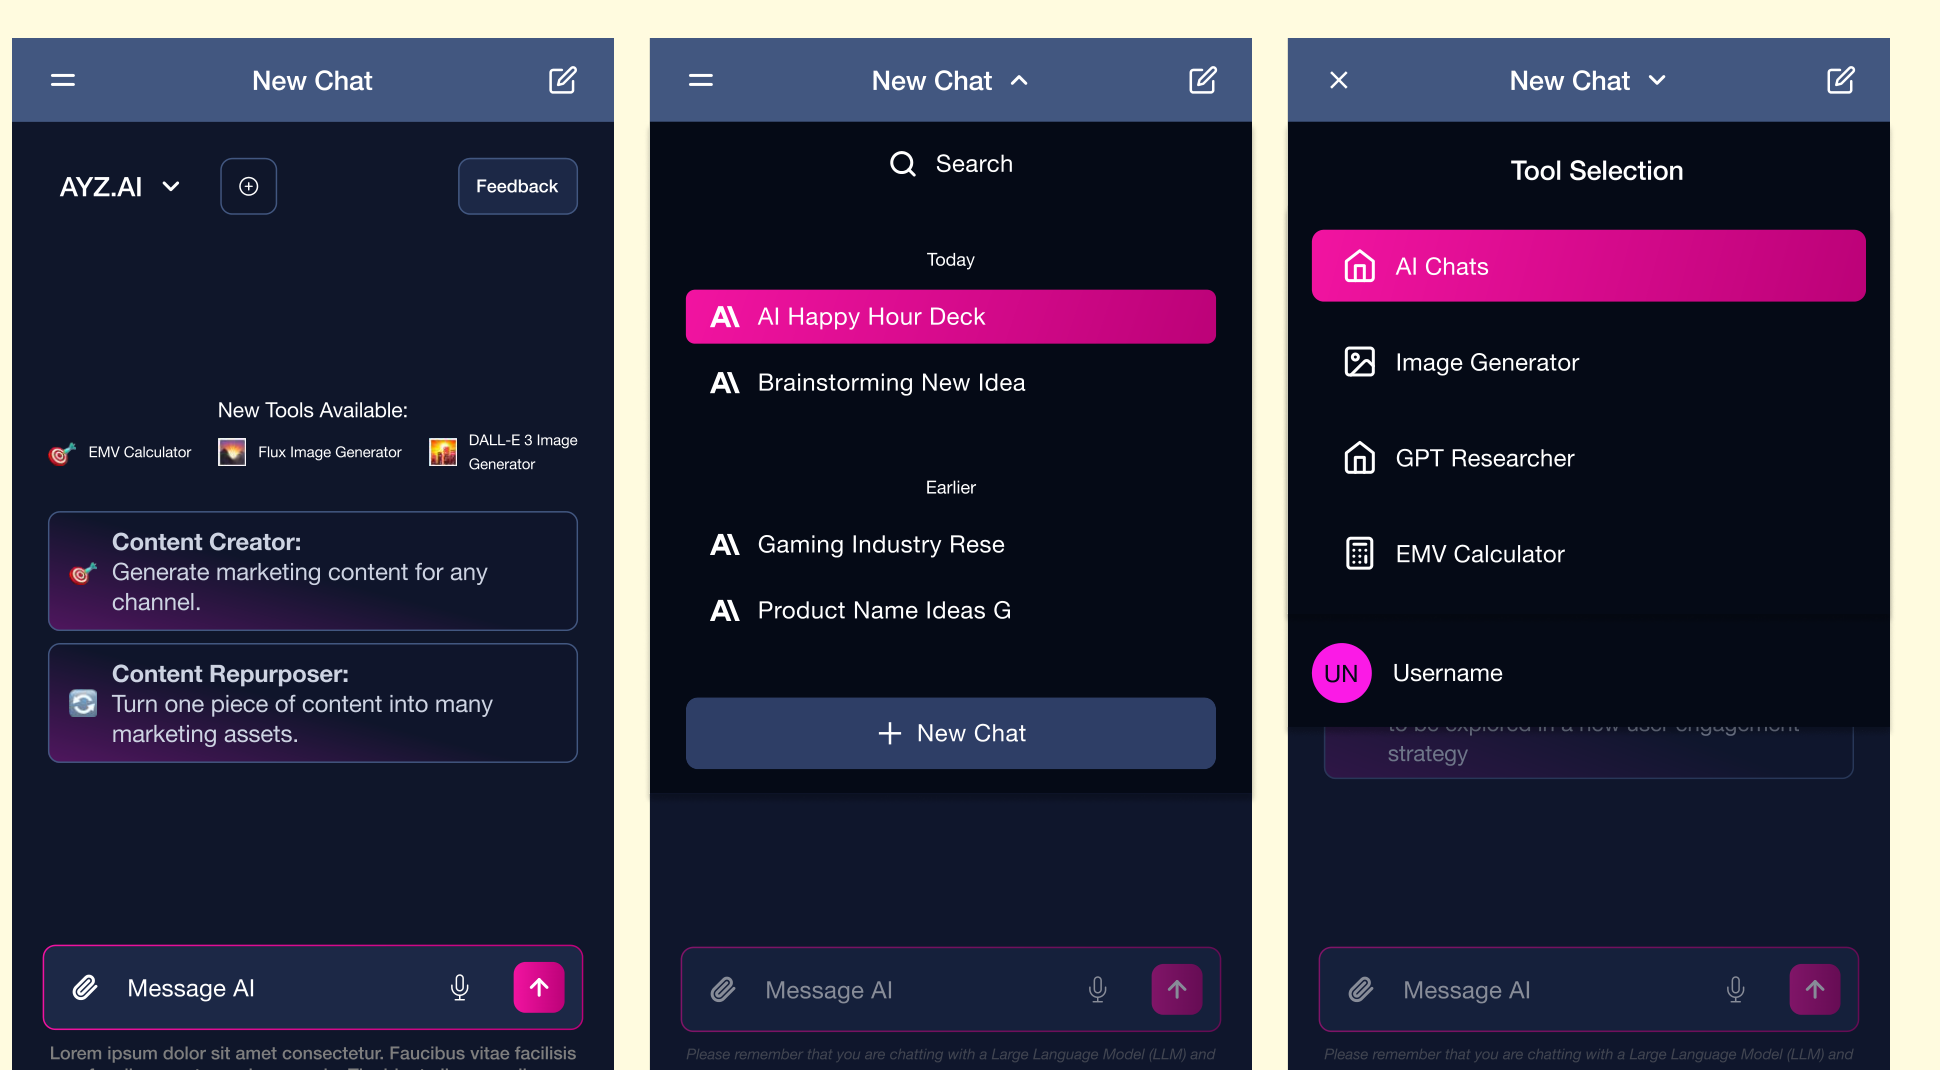
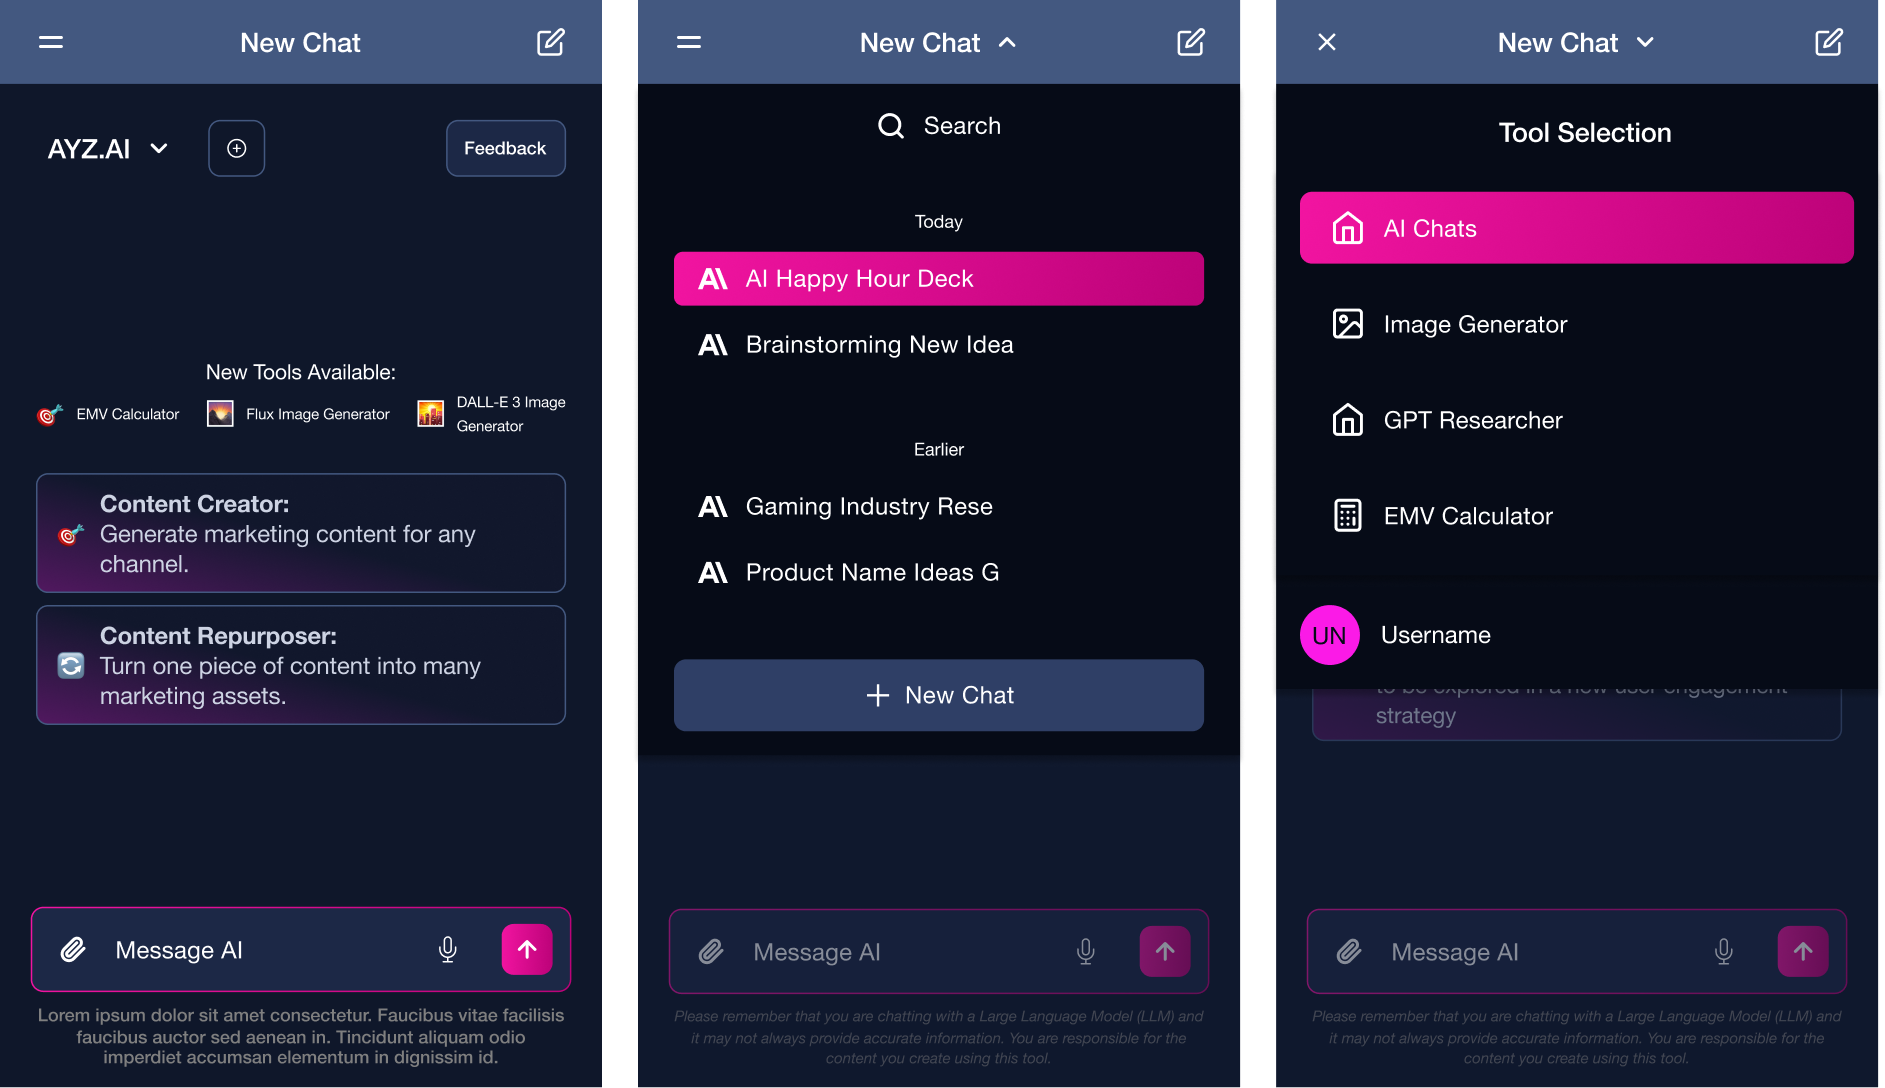
updated ayz.ai project

diff --git a/app/work/[slug]/page.module.css b/app/work/[slug]/page.module.css
@@ -118,15 +118,13 @@
 }
 
 .finalDesignItem {
-  width: 100%;
-  aspect-ratio: 3 / 2;
   flex: 1 1 300px;
 }
 
 .finalDesignImage {
   width: 100%;
-  height: 100%;
-  object-fit: cover;
+  height: auto;
+  display: block;
   border-radius: var(--radius-lg);
 }
 

diff --git a/content/projects/entries/ayz-ai.md b/content/projects/entries/ayz-ai.md
@@ -13,6 +13,7 @@ client: Ayzenberg
 role: Product Designer
 year: "2025"
 heroImage: /images/ayz-ai-hero.png
+thumbnail: /images/ayz-ai-thumb.jpg
 finalDesigns:
   - /images/ayz-ai-gallery-1.png
   - /images/ayz-ai-gallery-2.png
